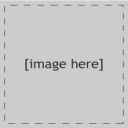
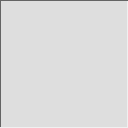
adjusted some scale params changed plase holder image
git-svn-id: https://gorgonzola.iwr.uni-heidelberg.de/svn/ILASTIK/trunk/src@338 40e545cb-b269-0410-8983-4113551e4d47

Changed region(s): [[0.0, 0.0, 1.0, 1.0], [0.1875, 0.4375, 0.8125, 0.5625]]

diff --git a/core/featureMgr.py b/core/featureMgr.py
@@ -142,7 +142,7 @@ class FeatureGroups(object):
         self.groupNames = ['Color', 'Texture', 'Edge']
         self.groupScaleNames = ['Tiny', 'Small', 'Medium', 'Large', 'Huge']
         self.selection = [ [False for k in self.groupScaleNames] for j in self.groupNames ]
-        self.groupScaleValues = [0.2, 0.5, 1, 1.6, 3]
+        self.groupScaleValues = [0.2, 0.5, 1, 1.5, 3]
         
         self.members = {}
         for g in self.groupNames:
@@ -201,13 +201,15 @@ def myHessianOfGaussianEigenvalues(x,s):
     else:
         print "Error: Dimension must be 2 or 3 dimensional"
         return None
+def myStructureTensorEigenvalues(x,s1,s2):
+    return vigra.filters.structureTensorEigenvalues(x,s1,s1/2.0)
     
 
 gaussianGradientMagnitude = vigra.filters.gaussianGradientMagnitude, ['Sigma' ]
 gaussianSmooth = vigra.filters.gaussianSmoothing, ['Sigma']
 structureTensor = vigra.filters.structureTensor, ['InnerScale', 'OuterScale']
 hessianMatrixOfGaussian = myHessianOfGaussian, ['Sigma']
-eigStructureTensor2d = vigra.filters.structureTensorEigenvalues, ['InnerScale', 'OuterScale']
+eigStructureTensor2d = myStructureTensorEigenvalues, ['InnerScale', 'OuterScale']
 laplacianOfGaussian = vigra.filters.laplacianOfGaussian, ['Sigma']
 morphologicalOpening = lambda x,s: vigra.morphology.discOpening(x.astype(numpy.uint8),int(s*1.5+1)), ['Sigma']
 morphologicalClosing = lambda x,s: vigra.morphology.discClosing(x.astype(numpy.uint8),int(s*1.5+1)), ['Sigma']
